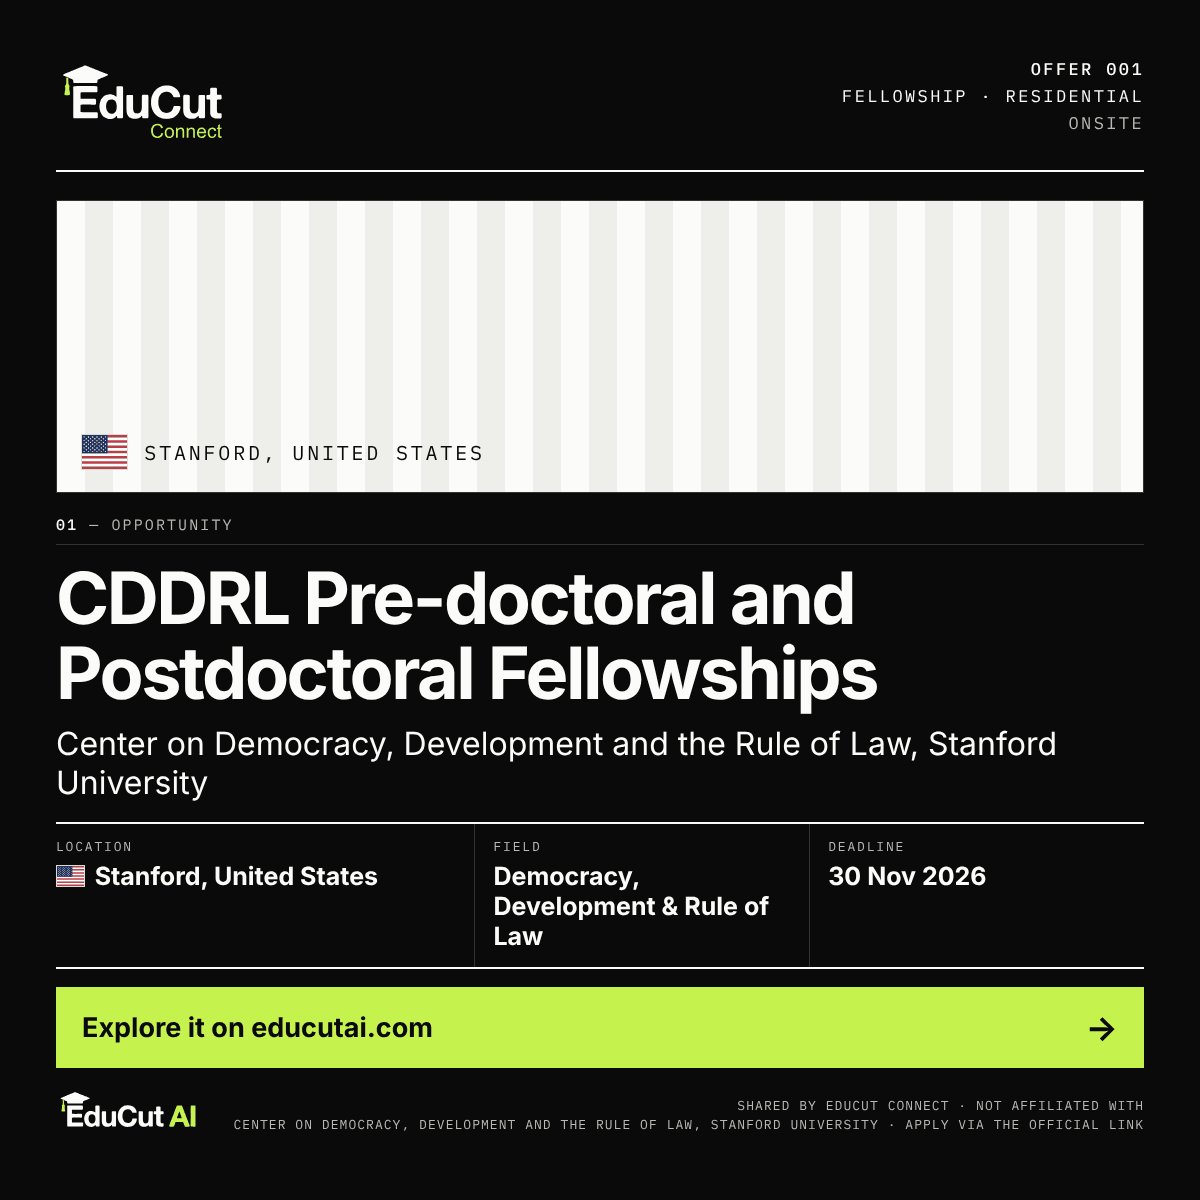
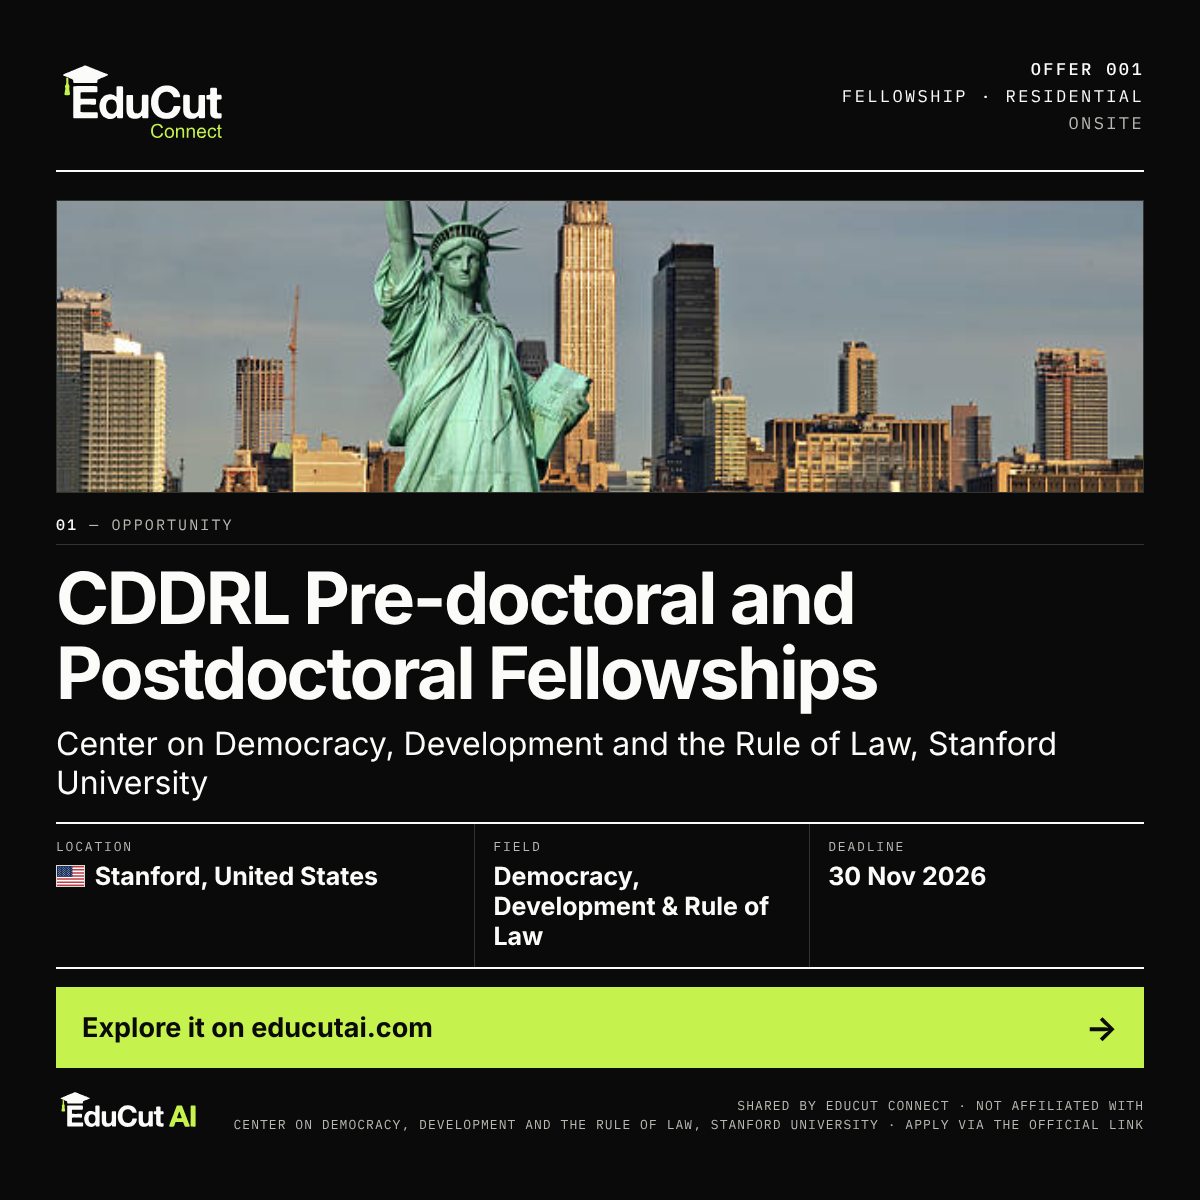
EduCut Connect website: countdown, urgency sort, search; Academy link first
- Countdown (bold, blue) on every listing card and at the top of each offer
  page, updated live in the browser; closed offers stay listed at the bottom
  with CLOSED in red and the apply button disabled.
- Listing sorted by urgency (soonest deadline first, no deadline next, closed
  last) and a search box over title, institution, location, field and type.
- Offer page: the Academy upskill block is now the primary (lime) action,
  placed before the outlined 'Apply on the official page' button.
- Offer_001 card re-rendered with the landmark photo from Drive.
- Ignore the local landmark photo cache (connect/assets/landmarks/).

Claude-Session: https://claude.ai/code/session_01Lnip56B3wmrg5dbZo7L6k4

Changed region(s): [[0.0308, 0.1542, 0.9558, 0.4317]]

diff --git a/educut-connect/001-cddrl-pre-doctoral-and-postdoctoral-fellowships/index.html b/educut-connect/001-cddrl-pre-doctoral-and-postdoctoral-fellowships/index.html
@@ -38,9 +38,10 @@
     </header>
 
     <section class="page-section alt">
-      <div class="wrap cx-offer" data-deadline="2026-11-30">
+      <div class="wrap cx-offer">
         <figure><img src="/educut-connect/001-cddrl-pre-doctoral-and-postdoctoral-fellowships/card.png" alt="EduCut Connect card: CDDRL Pre-doctoral and Postdoctoral Fellowships, Center on Democracy, Development and the Rule of Law, Stanford University, Stanford, United States." width="1080" height="1350" /></figure>
-        <div>
+        <div data-deadline="2026-11-30" data-suffix=" to apply">
+          <p class="cx-countdown"><strong data-countdown>Deadline 30 November 2026</strong><span>Deadline 30 November 2026</span></p>
           <h2>In short</h2>
           <p class="cx-summary">Nine-month residential fellowships at Stanford University, from September to June, for pre-doctoral and postdoctoral scholars working on democracy, development and the rule of law. Fellows spend the year in residence at the Center on Democracy, Development and the Rule of Law, writing and doing research. CDDRL offers two to four fully funded fellowships each academic year.</p>
           <ul class="cx-points">
@@ -56,18 +57,41 @@
             <div><dt>Type</dt><dd>Fellowship</dd></div>
             <div><dt>Field</dt><dd>Democracy, Development &amp; Rule of Law</dd></div>
             <div><dt>Level</dt><dd>Pre-doctoral / Postdoctoral</dd></div>
-            <div><dt>Deadline</dt><dd data-status>30 November 2026</dd></div>
+            <div><dt>Deadline</dt><dd>30 November 2026</dd></div>
           </dl>
           <div class="cx-actions">
-            <a class="btn btn-lime btn-lg cx-apply" data-apply href="https://cddrl.fsi.stanford.edu/cddrl-pre-doctoral-and-postdoctoral-fellowships" target="_blank" rel="noopener">Apply on the official page →</a>
             <a class="cx-upskill" href="https://educutai.com/academies/ai-for-education/#a010-07"><span class="mono">Upskill with EduCut AI Academy · A010.07</span><strong>AI for Research &amp; Academic Productivity →</strong></a>
+            <a class="cx-apply" data-apply href="https://cddrl.fsi.stanford.edu/cddrl-pre-doctoral-and-postdoctoral-fellowships" target="_blank" rel="noopener">Apply on the official page →</a>
           </div>
           <p class="cx-disclaimer">EduCut AI is not the employer, recruiter or a partner of Center on Democracy, Development and the Rule of Law, Stanford University. Details are taken from the official page; check them there before applying. EduCut AI courses build skills and do not guarantee selection.</p>
         </div>
       </div>
     </section>
 <script>
-(function(){var now=Date.now();document.querySelectorAll('[data-deadline]').forEach(function(el){var d=el.getAttribute('data-deadline');if(!d)return;var t=Date.parse(d.length===10?d+'T23:59:59Z':d);if(t&&t<now){el.classList.add('is-closed');var s=el.querySelector('[data-status]');if(s)s.textContent='Closed';var a=el.querySelector('[data-apply]');if(a){a.removeAttribute('href');a.setAttribute('aria-disabled','true');a.textContent='Applications closed';}}});})();
+(function(){
+  function end(d){if(!d)return NaN;return Date.parse(d.length===10?d+'T23:59:59Z':d);}
+  function left(ms){var m=Math.floor(ms/60000),d=Math.floor(m/1440),h=Math.floor(m%1440/60),n=m%60;
+    if(d>=2)return d+' days left';if(d===1)return '1 day '+h+' h left';if(h>=1)return h+' h '+n+' min left';return Math.max(n,1)+' min left';}
+  function tick(){var now=Date.now();
+    document.querySelectorAll('[data-deadline]').forEach(function(el){
+      var t=end(el.getAttribute('data-deadline')),c=el.querySelector('[data-countdown]'),suffix=el.getAttribute('data-suffix')||'';
+      if(isNaN(t)){el.setAttribute('data-rank','1');if(c)c.textContent='No deadline stated';return;}
+      if(t<now){el.classList.add('is-closed');el.setAttribute('data-rank','2');el.setAttribute('data-key',String(-t));if(c)c.textContent='Closed';
+        var a=el.querySelector('[data-apply]');if(a&&a.hasAttribute('href')){a.removeAttribute('href');a.setAttribute('aria-disabled','true');a.textContent='Applications closed';}}
+      else{el.setAttribute('data-rank','0');el.setAttribute('data-key',String(t));if(c)c.textContent=left(t-now)+suffix;}
+    });}
+  function sort(){var list=document.querySelector('[data-offers]');if(!list)return;
+    var items=[].slice.call(list.children);
+    items.sort(function(a,b){return (+a.getAttribute('data-rank'))-(+b.getAttribute('data-rank'))||(+a.getAttribute('data-key')||0)-(+b.getAttribute('data-key')||0);});
+    items.forEach(function(li){list.appendChild(li);});}
+  function search(){var q=document.getElementById('cx-q'),list=document.querySelector('[data-offers]'),out=document.getElementById('cx-results');if(!q||!list)return;
+    var terms=q.value.toLowerCase().split(/\s+/).filter(Boolean),shown=0,items=list.children;
+    for(var i=0;i<items.length;i++){var hay=items[i].getAttribute('data-search')||'';var ok=terms.every(function(w){return hay.indexOf(w)>-1;});items[i].hidden=!ok;if(ok)shown++;}
+    if(out)out.textContent=terms.length?shown+' of '+items.length+' opportunities match':items.length+' opportunities · most urgent first';}
+  tick();sort();
+  var f=document.getElementById('cx-search');if(f){f.addEventListener('submit',function(e){e.preventDefault();search();});document.getElementById('cx-q').addEventListener('input',search);search();}
+  setInterval(tick,60000);
+})();
 </script>
   </main>
 <footer>

diff --git a/educut-connect/index.html b/educut-connect/index.html
@@ -40,15 +40,18 @@
 
     <section class="page-section" aria-labelledby="cx-list">
       <div class="wrap">
-        <div class="cx-bar"><h2 id="cx-list">Current opportunities</h2><span class="mono">Newest first</span></div>
-      <ul class="cx-grid">
-        <li><a class="cx-card" href="/educut-connect/001-cddrl-pre-doctoral-and-postdoctoral-fellowships/" data-deadline="2026-11-30">
+        <div class="cx-bar"><h2 id="cx-list">Current opportunities</h2><span class="mono">Most urgent first</span></div>
+        <form class="cx-search" id="cx-search" role="search"><label class="sr-only" for="cx-q">Search opportunities</label><input id="cx-q" type="search" placeholder="Search by title, institution, country or field" autocomplete="off" /><button type="submit">Search</button></form>
+        <p class="mono cx-results" id="cx-results" aria-live="polite">1 opportunity · most urgent first</p>
+      <ul class="cx-grid" data-offers>
+        <li data-deadline="2026-11-30" data-search="offer 001 cddrl pre-doctoral and postdoctoral fellowships center on democracy, development and the rule of law, stanford university stanford, united states democracy, development &amp; rule of law pre-doctoral / postdoctoral fellowship fellowship onsite"><a class="cx-card" href="/educut-connect/001-cddrl-pre-doctoral-and-postdoctoral-fellowships/">
           <img class="cx-photo" src="/educut-connect/001-cddrl-pre-doctoral-and-postdoctoral-fellowships/photo.jpg" alt="New York skyline with the Statue of Liberty and the Empire State Building, United States" width="609" height="406" loading="lazy" />
           <div class="cx-body">
             <span class="mono cx-kicker">Offer 001 · Fellowship · <span class="cx-tag">Preview</span></span>
             <h3>CDDRL Pre-doctoral and Postdoctoral Fellowships</h3>
             <p class="cx-inst">Center on Democracy, Development and the Rule of Law, Stanford University<br />Stanford, United States</p>
-            <div class="mono cx-meta"><span data-status>Deadline 30 Nov 2026</span><span class="cx-more">View →</span></div>
+            <span class="cx-count" data-countdown>Deadline 30 Nov 2026</span>
+            <div class="mono cx-meta"><span>Deadline 30 Nov 2026</span><span class="cx-more">View →</span></div>
           </div>
         </a></li>
       </ul>
@@ -57,7 +60,30 @@
 
     <section class="cta"><div class="wrap cta-grid"><h2>Build the AI skills these roles ask for.</h2><a class="btn btn-lg" href="/academies/">Explore the EduCut AI Academy →</a></div></section>
 <script>
-(function(){var now=Date.now();document.querySelectorAll('[data-deadline]').forEach(function(el){var d=el.getAttribute('data-deadline');if(!d)return;var t=Date.parse(d.length===10?d+'T23:59:59Z':d);if(t&&t<now){el.classList.add('is-closed');var s=el.querySelector('[data-status]');if(s)s.textContent='Closed';var a=el.querySelector('[data-apply]');if(a){a.removeAttribute('href');a.setAttribute('aria-disabled','true');a.textContent='Applications closed';}}});})();
+(function(){
+  function end(d){if(!d)return NaN;return Date.parse(d.length===10?d+'T23:59:59Z':d);}
+  function left(ms){var m=Math.floor(ms/60000),d=Math.floor(m/1440),h=Math.floor(m%1440/60),n=m%60;
+    if(d>=2)return d+' days left';if(d===1)return '1 day '+h+' h left';if(h>=1)return h+' h '+n+' min left';return Math.max(n,1)+' min left';}
+  function tick(){var now=Date.now();
+    document.querySelectorAll('[data-deadline]').forEach(function(el){
+      var t=end(el.getAttribute('data-deadline')),c=el.querySelector('[data-countdown]'),suffix=el.getAttribute('data-suffix')||'';
+      if(isNaN(t)){el.setAttribute('data-rank','1');if(c)c.textContent='No deadline stated';return;}
+      if(t<now){el.classList.add('is-closed');el.setAttribute('data-rank','2');el.setAttribute('data-key',String(-t));if(c)c.textContent='Closed';
+        var a=el.querySelector('[data-apply]');if(a&&a.hasAttribute('href')){a.removeAttribute('href');a.setAttribute('aria-disabled','true');a.textContent='Applications closed';}}
+      else{el.setAttribute('data-rank','0');el.setAttribute('data-key',String(t));if(c)c.textContent=left(t-now)+suffix;}
+    });}
+  function sort(){var list=document.querySelector('[data-offers]');if(!list)return;
+    var items=[].slice.call(list.children);
+    items.sort(function(a,b){return (+a.getAttribute('data-rank'))-(+b.getAttribute('data-rank'))||(+a.getAttribute('data-key')||0)-(+b.getAttribute('data-key')||0);});
+    items.forEach(function(li){list.appendChild(li);});}
+  function search(){var q=document.getElementById('cx-q'),list=document.querySelector('[data-offers]'),out=document.getElementById('cx-results');if(!q||!list)return;
+    var terms=q.value.toLowerCase().split(/\s+/).filter(Boolean),shown=0,items=list.children;
+    for(var i=0;i<items.length;i++){var hay=items[i].getAttribute('data-search')||'';var ok=terms.every(function(w){return hay.indexOf(w)>-1;});items[i].hidden=!ok;if(ok)shown++;}
+    if(out)out.textContent=terms.length?shown+' of '+items.length+' opportunities match':items.length+' opportunities · most urgent first';}
+  tick();sort();
+  var f=document.getElementById('cx-search');if(f){f.addEventListener('submit',function(e){e.preventDefault();search();});document.getElementById('cx-q').addEventListener('input',search);search();}
+  setInterval(tick,60000);
+})();
 </script>
   </main>
 <footer>

diff --git a/educut-connect/connect.css b/educut-connect/connect.css
@@ -1,4 +1,5 @@
 /* EduCut Connect pages: generated by connect/lib/site.mjs (do not edit by hand). */
+:root{--cx-red:#d92d20}
 .cx-hero .lead{max-width:780px}
 .cx-note{max-width:780px;margin:0;padding:14px 16px;border-left:4px solid var(--lime);background:#151515;color:#c9c9c6;font-size:14px;line-height:1.55}
 .cx-preview{background:var(--lime);color:var(--ink);font:600 12px/1.4 ui-monospace,SFMono-Regular,Menlo,monospace;letter-spacing:.08em;text-transform:uppercase;padding:10px 0;text-align:center}
@@ -13,9 +14,21 @@
 .cx-card .cx-kicker{color:var(--blue);font-size:12px;letter-spacing:.1em;text-transform:uppercase}
 .cx-card h3{font-size:19px;line-height:1.2;letter-spacing:-.02em;margin:0}
 .cx-card .cx-inst{color:#5f5f5a;font-size:14px;line-height:1.4;margin:0}
-.cx-card .cx-meta{margin-top:auto;padding-top:10px;border-top:1px solid var(--line);display:flex;justify-content:space-between;gap:10px;font-size:12px;letter-spacing:.06em;text-transform:uppercase;color:#5f5f5a}
+.cx-card .cx-count{margin-top:auto;padding-top:6px;font-weight:700;font-size:17px;letter-spacing:-.01em;color:var(--blue)}
+.cx-card .cx-meta{padding-top:10px;border-top:1px solid var(--line);display:flex;justify-content:space-between;gap:10px;font-size:12px;letter-spacing:.06em;text-transform:uppercase;color:#5f5f5a}
 .cx-card .cx-more{color:var(--ink)}
-.cx-card.is-closed{opacity:.55}
+.is-closed .cx-card img{filter:grayscale(1);opacity:.6}
+.sr-only{position:absolute;width:1px;height:1px;overflow:hidden;clip:rect(0 0 0 0);white-space:nowrap}
+.is-closed .cx-count,.is-closed .cx-countdown strong{color:var(--cx-red);text-transform:uppercase;letter-spacing:.06em}
+.cx-search{display:flex;gap:0;margin:0 0 14px;max-width:640px}
+.cx-search input{flex:1;min-width:0;font:inherit;font-size:16px;padding:13px 14px;border:1px solid var(--ink);border-right:0;border-radius:0;background:#fff;color:var(--ink)}
+.cx-search input:focus{outline:2px solid var(--blue);outline-offset:-2px}
+.cx-search button{font:inherit;font-weight:600;font-size:15px;padding:0 20px;border:1px solid var(--ink);background:var(--ink);color:#fff;cursor:pointer}
+.cx-results{font-size:12px;letter-spacing:.08em;text-transform:uppercase;color:#5f5f5a;margin:0 0 24px}
+.cx-grid li[hidden]{display:none}
+.cx-countdown{margin:0 0 26px;padding:0 0 18px;border-bottom:2px solid var(--ink)}
+.cx-countdown strong{display:block;font-size:clamp(30px,4vw,44px);line-height:1.05;letter-spacing:-.03em;color:var(--blue)}
+.cx-countdown span{display:block;margin-top:6px;font-size:12px;letter-spacing:.1em;text-transform:uppercase;color:#5f5f5a}
 .cx-tag{display:inline-block;border:1px solid currentColor;padding:2px 6px;font-size:11px;letter-spacing:.08em}
 .cx-empty{padding:28px;border:1px dashed var(--line);background:#fff;color:#5f5f5a}
 .cx-offer{display:grid;grid-template-columns:minmax(0,5fr) minmax(0,7fr);gap:48px;align-items:start}
@@ -32,11 +45,13 @@
 .cx-facts dt{font-size:11px;letter-spacing:.12em;text-transform:uppercase;color:#5f5f5a;margin:0 0 4px;font-family:ui-monospace,SFMono-Regular,Menlo,monospace}
 .cx-facts dd{margin:0;font-size:16px;font-weight:600;line-height:1.35}
 .cx-actions{display:grid;gap:14px;margin:0 0 28px}
-.cx-apply{justify-self:start}
-.cx-upskill{display:block;padding:18px 20px;border:1px solid var(--ink);background:#fff;color:var(--ink);text-decoration:none}
-.cx-upskill:hover{background:var(--ink);color:#fff}
-.cx-upskill .mono{display:block;color:var(--blue);font-size:12px;letter-spacing:.1em;text-transform:uppercase;margin-bottom:6px}
+.cx-upskill{display:block;padding:20px 22px;border:1px solid var(--lime);background:var(--lime);color:var(--ink);text-decoration:none}
+.cx-upskill:hover{background:var(--ink);border-color:var(--ink);color:#fff}
+.cx-upskill .mono{display:block;font-size:12px;letter-spacing:.1em;text-transform:uppercase;margin-bottom:6px}
 .cx-upskill:hover .mono{color:var(--lime)}
-.cx-upskill strong{font-size:18px;letter-spacing:-.01em}
+.cx-upskill strong{font-size:20px;letter-spacing:-.015em}
+.cx-apply{justify-self:start;display:inline-block;padding:13px 20px;border:1px solid var(--ink);background:#fff;color:var(--ink);font-weight:600;font-size:15px;text-decoration:none}
+.cx-apply:hover{background:var(--ink);color:#fff}
+.cx-apply[aria-disabled]{border-color:var(--line);color:#8d8d88;background:transparent;pointer-events:none}
 .cx-disclaimer{font-size:13px;line-height:1.55;color:#5f5f5a;border-top:1px solid var(--line);padding-top:16px;margin:0}
 @media (max-width:860px){.cx-offer{grid-template-columns:1fr;gap:28px}.cx-offer figure{position:static;max-width:420px}}
